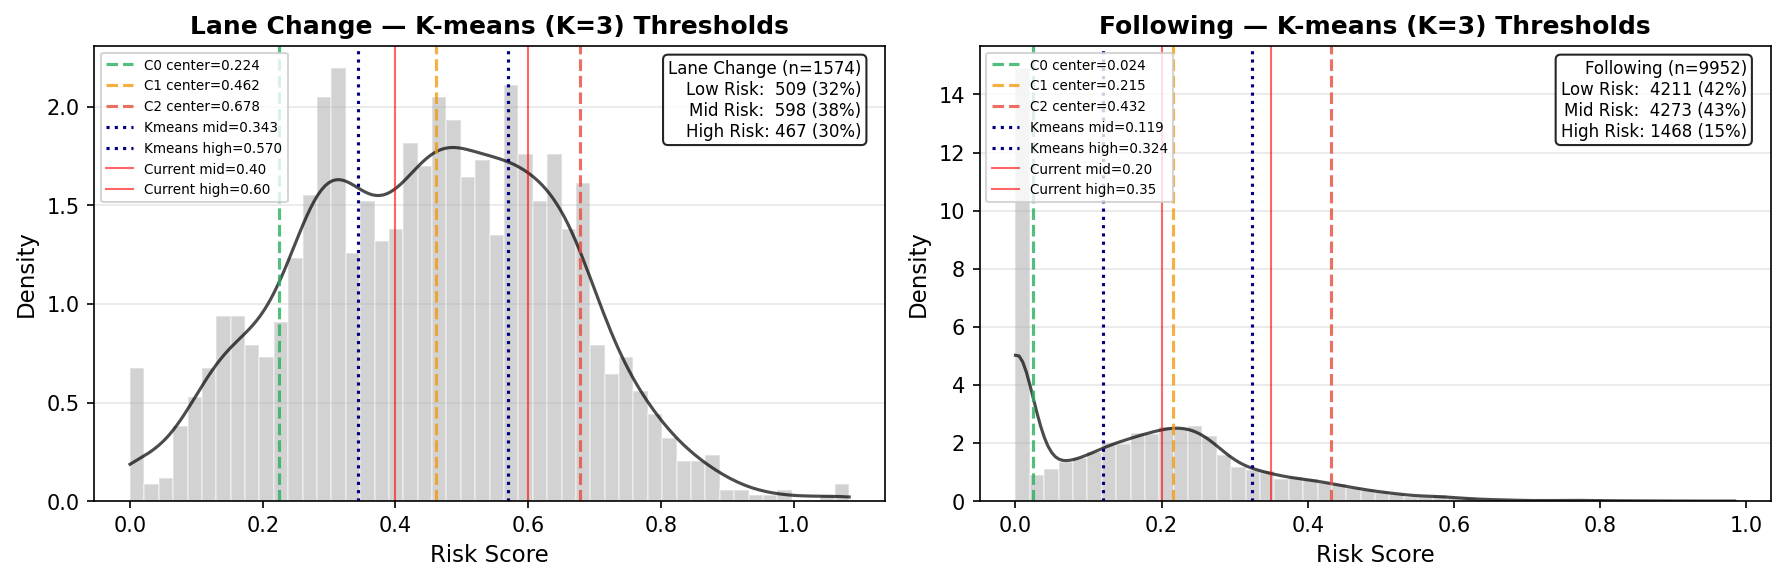
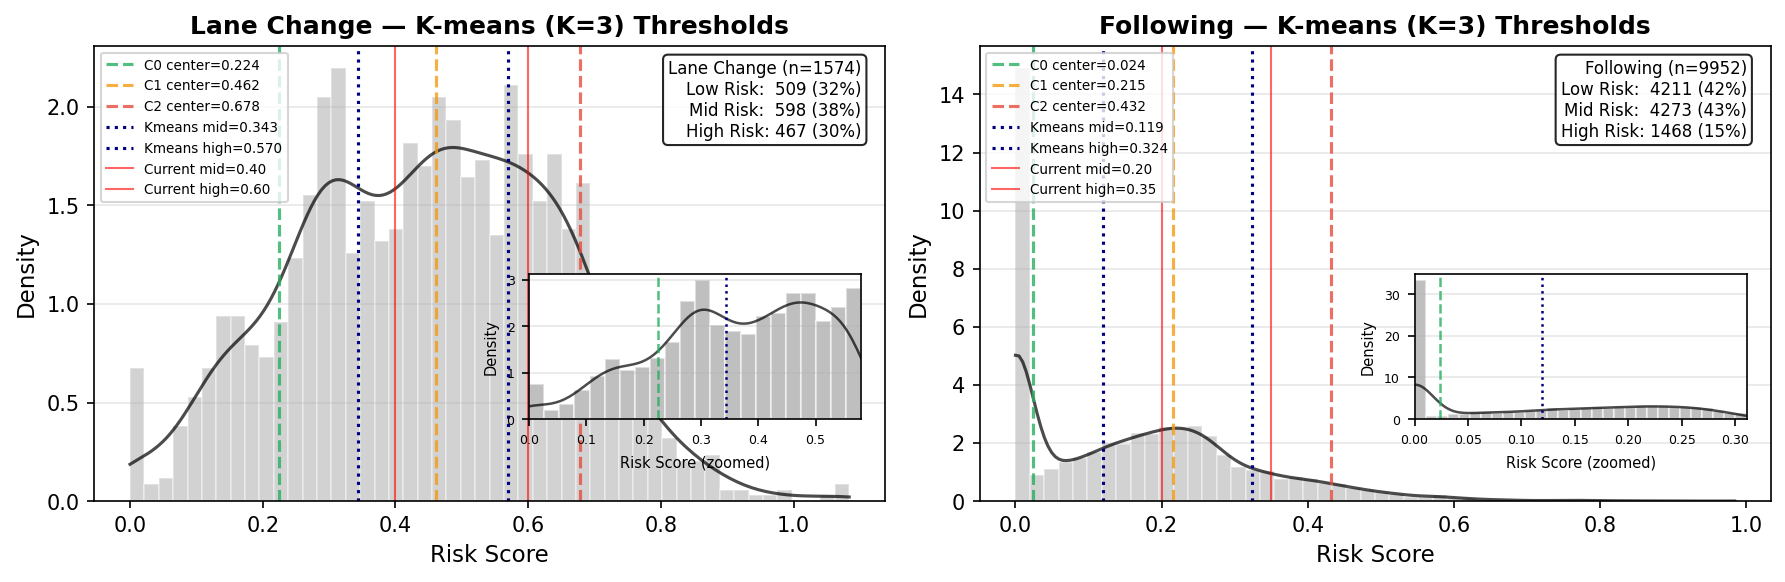
fix: K-means 图增加跟驰低分区域放大窗
- following 面板右下 inset 展示 0~0.31 低分区域细粒度分布

Changed region(s): [[0.2773, 0.4639, 0.493, 0.7423], [0.7395, 0.4639, 0.986, 0.8041], [0.3389, 0.7732, 0.4314, 0.8041]]

diff --git a/traffic_full/safety_scoring_exp.py b/traffic_full/safety_scoring_exp.py
@@ -286,7 +286,7 @@ def run_kmeans_threshold():
 
 
 def _plot_kmeans_thresholds(results):
-    """绘制 K-means 聚类结果"""
+    """绘制 K-means 聚类结果（跟驰含低分放大窗）"""
     import matplotlib
     matplotlib.use('Agg')
     import matplotlib.pyplot as plt
@@ -335,6 +335,37 @@ def _plot_kmeans_thresholds(results):
                    label=f'Current mid={cur["mid"]:.2f}')
         ax.axvline(cur['high'], color='red', linestyle='-', linewidth=1, alpha=0.6,
                    label=f'Current high={cur["high"]:.2f}')
+
+        # ── 低分区域放大窗（跟驰主峰密集区） ──
+        zoom_xmax = centers[1] + (centers[1] - centers[0]) * 0.5  # 到中风险中心偏左
+        zoom_scores = scores[scores <= zoom_xmax]
+        if len(zoom_scores) > 0:
+            # inset 位置：右内侧 [left, bottom, width, height] (axes coords)
+            ax_inset = ax.inset_axes([0.55, 0.18, 0.42, 0.32])
+
+            bins_zoom = min(30, max(10, int(len(zoom_scores) / 50)))
+            ax_inset.hist(zoom_scores, bins=bins_zoom, color='gray',
+                          alpha=0.5, edgecolor='white', density=True)
+
+            # 低分区 KDE
+            try:
+                kde_z = gaussian_kde(zoom_scores)
+                zs = np.linspace(zoom_scores.min(), zoom_scores.max(), 150)
+                ax_inset.plot(zs, kde_z(zs), 'k-', linewidth=1.2, alpha=0.7)
+            except Exception:
+                pass
+
+            # 低风险聚类中心 + K-means mid 阈值
+            ax_inset.axvline(centers[0], color=colors[0], linestyle='--',
+                             linewidth=1.2, alpha=0.8)
+            ax_inset.axvline(thresh['mid'], color='navy', linestyle=':',
+                             linewidth=1.2)
+
+            ax_inset.set_xlim(zoom_scores.min(), zoom_xmax)
+            ax_inset.set_xlabel('Risk Score (zoomed)', fontsize=7)
+            ax_inset.set_ylabel('Density', fontsize=7)
+            ax_inset.tick_params(labelsize=6)
+            ax_inset.grid(axis='y', alpha=0.3)
 
         counts = res['counts']
         n = len(scores)
